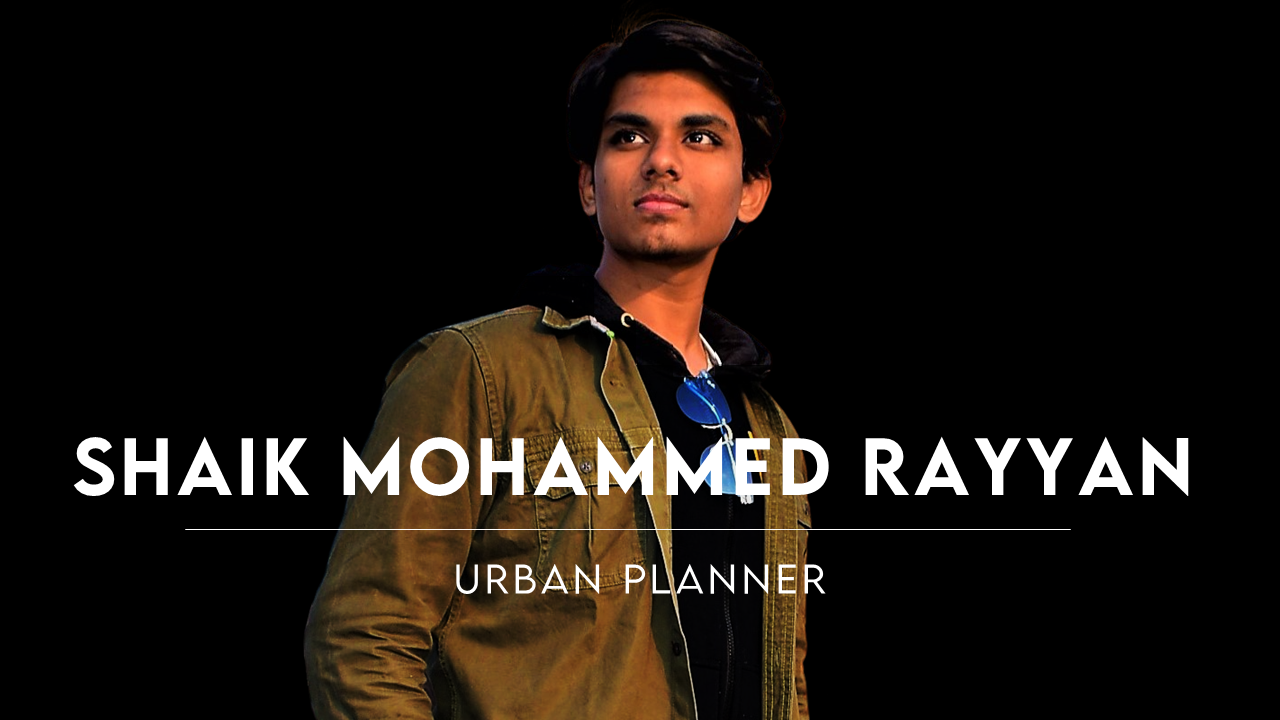
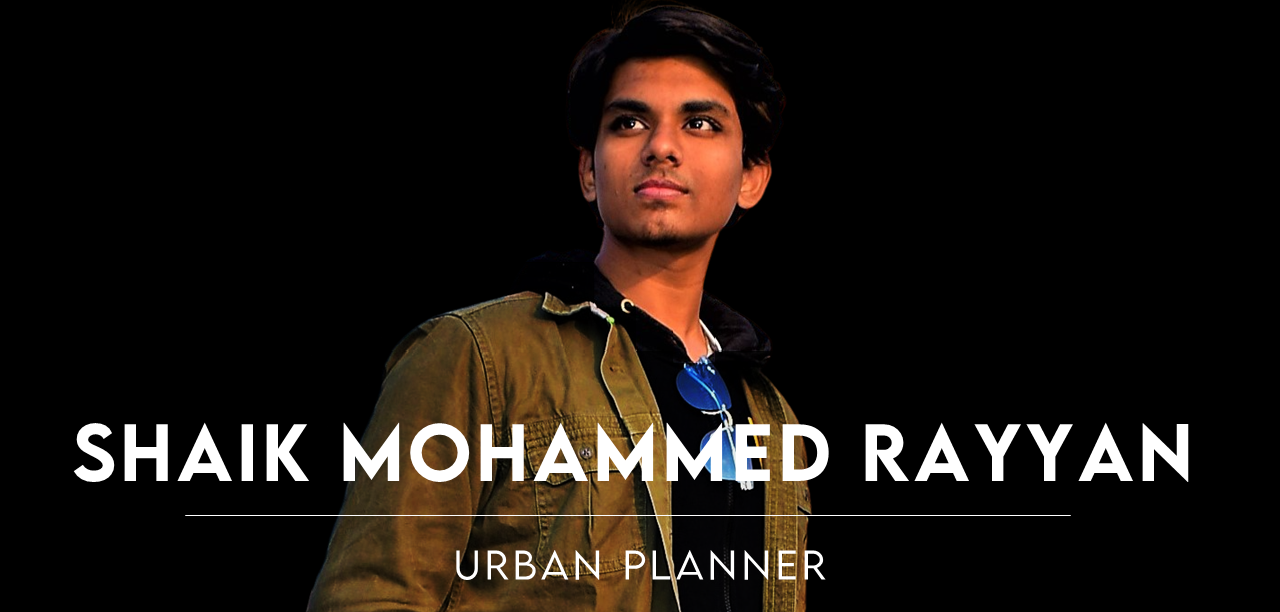
update

Changed region(s): [[0.0625, 0.1552, 0.9375, 1.0], [0.4688, 0.0, 0.5938, 0.1242]]

diff --git a/index.html b/index.html
@@ -13,7 +13,7 @@
     <link rel="stylesheet" href="style.css">
     <link rel="preconnect" href="https://fonts.googleapis.com">
     <link rel="preconnect" href="https://fonts.gstatic.com" crossorigin>
-    <link href="https://fonts.googleapis.com/css2?family=Montserrat:wght@300&display=swap" rel="stylesheet">
+    <link href="https://fonts.googleapis.com/css2?family=Montserrat:wght@400&display=swap" rel="stylesheet">
     <script src="https://kit.fontawesome.com/a320dfbe7e.js" crossorigin="anonymous"></script>
     <title>Shaik Mohammed Rayyan</title>
     <link rel="shortcut icon" href="./images/logo.ico" type="image/x-icon">
@@ -24,7 +24,7 @@
         <img id="top-img" class="header-logo" src="./images/mylogo.png" alt="LOGO">
     </div>
 
-    <header style="height: fit-content; margin-bottom: 30px" class="text-gray-600 body-font navbar">
+    <header style="height: fit-content;" class="text-gray-600 body-font navbar">
         <div style="height:fit-content;padding: 13px;" class="container mx-auto flex flex-wrap flex-col md:flex-row items-center">
 
             <nav class="md:ml-auto md:mr-auto flex flex-wrap items-center text-base justify-center">
@@ -46,45 +46,40 @@
     <script type="text/javascript">
         window.jssor_1_slider_init = function() {
 
-            var jssor_1_SlideshowTransitions = [
-              {$Duration:800,x:0.3,$During:{$Left:[0.3,0.7]},$Easing:{$Left:$Jease$.$InCubic,$Opacity:$Jease$.$Linear},$Opacity:2},
-              {$Duration:800,x:-0.3,$SlideOut:true,$Easing:{$Left:$Jease$.$InCubic,$Opacity:$Jease$.$Linear},$Opacity:2},
-              {$Duration:800,x:-0.3,$During:{$Left:[0.3,0.7]},$Easing:{$Left:$Jease$.$InCubic,$Opacity:$Jease$.$Linear},$Opacity:2},
-              {$Duration:800,x:0.3,$SlideOut:true,$Easing:{$Left:$Jease$.$InCubic,$Opacity:$Jease$.$Linear},$Opacity:2},
-              {$Duration:800,y:0.3,$During:{$Top:[0.3,0.7]},$Easing:{$Top:$Jease$.$InCubic,$Opacity:$Jease$.$Linear},$Opacity:2},
-              {$Duration:800,y:-0.3,$SlideOut:true,$Easing:{$Top:$Jease$.$InCubic,$Opacity:$Jease$.$Linear},$Opacity:2},
-              {$Duration:800,y:-0.3,$During:{$Top:[0.3,0.7]},$Easing:{$Top:$Jease$.$InCubic,$Opacity:$Jease$.$Linear},$Opacity:2},
-              {$Duration:800,y:0.3,$SlideOut:true,$Easing:{$Top:$Jease$.$InCubic,$Opacity:$Jease$.$Linear},$Opacity:2},
-              {$Duration:800,x:0.3,$Cols:2,$During:{$Left:[0.3,0.7]},$ChessMode:{$Column:3},$Easing:{$Left:$Jease$.$InCubic,$Opacity:$Jease$.$Linear},$Opacity:2},
-              {$Duration:800,x:0.3,$Cols:2,$SlideOut:true,$ChessMode:{$Column:3},$Easing:{$Left:$Jease$.$InCubic,$Opacity:$Jease$.$Linear},$Opacity:2},
-              {$Duration:800,y:0.3,$Rows:2,$During:{$Top:[0.3,0.7]},$ChessMode:{$Row:12},$Easing:{$Top:$Jease$.$InCubic,$Opacity:$Jease$.$Linear},$Opacity:2},
-              {$Duration:800,y:0.3,$Rows:2,$SlideOut:true,$ChessMode:{$Row:12},$Easing:{$Top:$Jease$.$InCubic,$Opacity:$Jease$.$Linear},$Opacity:2},
-              {$Duration:800,y:0.3,$Cols:2,$During:{$Top:[0.3,0.7]},$ChessMode:{$Column:12},$Easing:{$Top:$Jease$.$InCubic,$Opacity:$Jease$.$Linear},$Opacity:2},
-              {$Duration:800,y:-0.3,$Cols:2,$SlideOut:true,$ChessMode:{$Column:12},$Easing:{$Top:$Jease$.$InCubic,$Opacity:$Jease$.$Linear},$Opacity:2},
-              {$Duration:800,x:0.3,$Rows:2,$During:{$Left:[0.3,0.7]},$ChessMode:{$Row:3},$Easing:{$Left:$Jease$.$InCubic,$Opacity:$Jease$.$Linear},$Opacity:2},
-              {$Duration:800,x:-0.3,$Rows:2,$SlideOut:true,$ChessMode:{$Row:3},$Easing:{$Left:$Jease$.$InCubic,$Opacity:$Jease$.$Linear},$Opacity:2},
-              {$Duration:800,x:0.3,y:0.3,$Cols:2,$Rows:2,$During:{$Left:[0.3,0.7],$Top:[0.3,0.7]},$ChessMode:{$Column:3,$Row:12},$Easing:{$Left:$Jease$.$InCubic,$Top:$Jease$.$InCubic,$Opacity:$Jease$.$Linear},$Opacity:2},
-              {$Duration:800,x:0.3,y:0.3,$Cols:2,$Rows:2,$During:{$Left:[0.3,0.7],$Top:[0.3,0.7]},$SlideOut:true,$ChessMode:{$Column:3,$Row:12},$Easing:{$Left:$Jease$.$InCubic,$Top:$Jease$.$InCubic,$Opacity:$Jease$.$Linear},$Opacity:2},
-              {$Duration:800,$Delay:20,$Clip:3,$Assembly:260,$Easing:{$Clip:$Jease$.$InCubic,$Opacity:$Jease$.$Linear},$Opacity:2},
-              {$Duration:800,$Delay:20,$Clip:3,$SlideOut:true,$Assembly:260,$Easing:{$Clip:$Jease$.$OutCubic,$Opacity:$Jease$.$Linear},$Opacity:2},
-              {$Duration:800,$Delay:20,$Clip:12,$Assembly:260,$Easing:{$Clip:$Jease$.$InCubic,$Opacity:$Jease$.$Linear},$Opacity:2},
-              {$Duration:800,$Delay:20,$Clip:12,$SlideOut:true,$Assembly:260,$Easing:{$Clip:$Jease$.$OutCubic,$Opacity:$Jease$.$Linear},$Opacity:2}
+            var jssor_1_SlideoTransitions = [
+              [{b:-1,d:1,ls:0.5},{b:0,d:1000,y:5,e:{y:6}}],
+              [{b:-1,d:1,ls:0.5},{b:200,d:1000,y:25,e:{y:6}}],
+              [{b:-1,d:1,ls:0.5},{b:400,d:1000,y:45,e:{y:6}}],
+              [{b:-1,d:1,ls:0.5},{b:600,d:1000,y:65,e:{y:6}}],
+              [{b:-1,d:1,ls:0.5},{b:800,d:1000,y:85,e:{y:6}}],
+              [{b:-1,d:1,ls:0.5},{b:500,d:1000,y:195,e:{y:6}}],
+              [{b:0,d:2000,y:30,e:{y:3}}],
+              [{b:-1,d:1,rY:-15,tZ:100},{b:0,d:1500,y:30,o:1,e:{y:3}}],
+              [{b:-1,d:1,rY:-15,tZ:-100},{b:0,d:1500,y:100,o:0.8,e:{y:3}}],
+              [{b:500,d:1500,o:1}],
+              [{b:0,d:1000,y:380,e:{y:6}}],
+              [{b:300,d:1000,x:80,e:{x:6}}],
+              [{b:300,d:1000,x:330,e:{x:6}}],
+              [{b:-1,d:1,r:-110,sX:5,sY:5},{b:0,d:2000,o:1,r:-20,sX:1,sY:1,e:{o:6,r:6,sX:6,sY:6}}],
+              [{b:0,d:600,x:150,o:0.5,e:{x:6}}],
+              [{b:0,d:600,x:1140,o:0.6,e:{x:6}}],
+              [{b:-1,d:1,sX:5,sY:5},{b:600,d:600,o:1,sX:1,sY:1,e:{sX:3,sY:3}}]
             ];
 
             var jssor_1_options = {
               $AutoPlay: 1,
-              $SlideshowOptions: {
-                $Class: $JssorSlideshowRunner$,
-                $Transitions: jssor_1_SlideshowTransitions,
-                $TransitionsOrder: 1
+              $LazyLoading: 1,
+              $CaptionSliderOptions: {
+                $Class: $JssorCaptionSlideo$,
+                $Transitions: jssor_1_SlideoTransitions
               },
               $ArrowNavigatorOptions: {
                 $Class: $JssorArrowNavigator$
               },
-              $ThumbnailNavigatorOptions: {
-                $Class: $JssorThumbnailNavigator$,
-                $SpacingX: 5,
-                $SpacingY: 5
+              $BulletNavigatorOptions: {
+                $Class: $JssorBulletNavigator$,
+                $SpacingX: 20,
+                $SpacingY: 20
               }
             };
 
@@ -92,7 +87,7 @@
 
             /*#region responsive code begin*/
 
-            var MAX_WIDTH = 980;
+            var MAX_WIDTH = 1600;
 
             function ScaleSlider() {
                 var containerElement = jssor_1_slider.$Elmt.parentNode;
@@ -117,8 +112,9 @@
             /*#endregion responsive code end*/
         };
     </script>
+    <link href="https://fonts.googleapis.com/css?family=Roboto+Condensed:300,300italic,regular,italic,700,700italic&subset=latin-ext,greek-ext,cyrillic-ext,greek,vietnamese,latin,cyrillic" rel="stylesheet" type="text/css" />
     <style>
-        /*jssor slider loading skin spin css*/
+        /* jssor slider loading skin spin css */
         .jssorl-009-spin img {
             animation-name: jssorl-009-spin;
             animation-duration: 1.6s;
@@ -127,100 +123,100 @@
         }
 
         @keyframes jssorl-009-spin {
-            from { transform: rotate(0deg); }
-            to { transform: rotate(360deg); }
+            from {
+                transform: rotate(0deg);
+            }
+
+            to {
+                transform: rotate(360deg);
+            }
         }
 
-        /*jssor slider arrow skin 106 css*/
-        .jssora106 {display:block;position:absolute;cursor:pointer;}
-        .jssora106 .c {fill:#fff;opacity:.3;}
-        .jssora106 .a {fill:none;stroke:#000;stroke-width:350;stroke-miterlimit:10;}
-        .jssora106:hover .c {opacity:.5;}
-        .jssora106:hover .a {opacity:.8;}
-        .jssora106.jssora106dn .c {opacity:.2;}
-        .jssora106.jssora106dn .a {opacity:1;}
-        .jssora106.jssora106ds {opacity:.3;pointer-events:none;}
 
-        /*jssor slider thumbnail skin 101 css*/
-        .jssort101 .p {position: absolute;top:0;left:0;box-sizing:border-box;background:#000;}
-        .jssort101 .p .cv {position:relative;top:0;left:0;width:100%;height:100%;border:2px solid #000;box-sizing:border-box;z-index:1;}
-        .jssort101 .a {fill:none;stroke:#fff;stroke-width:400;stroke-miterlimit:10;visibility:hidden;}
-        .jssort101 .p:hover .cv, .jssort101 .p.pdn .cv {border:none;border-color:transparent;}
-        .jssort101 .p:hover{padding:2px;}
-        .jssort101 .p:hover .cv {background-color:rgba(0,0,0,6);opacity:.35;}
-        .jssort101 .p:hover.pdn{padding:0;}
-        .jssort101 .p:hover.pdn .cv {border:2px solid #fff;background:none;opacity:.35;}
-        .jssort101 .pav .cv {border-color:#fff;opacity:.35;}
-        .jssort101 .pav .a, .jssort101 .p:hover .a {visibility:visible;}
-        .jssort101 .t {position:absolute;top:0;left:0;width:100%;height:100%;border:none;opacity:.6;}
-        .jssort101 .pav .t, .jssort101 .p:hover .t{opacity:1;}
+        /*jssor slider bullet skin 132 css*/
+        .jssorb132 {position:absolute;}
+        .jssorb132 .i {position:absolute;cursor:pointer;}
+        .jssorb132 .i .b {fill:#fff;fill-opacity:0.8;stroke:#000;stroke-width:1600;stroke-miterlimit:10;stroke-opacity:0.7;}
+        .jssorb132 .i:hover .b {fill:#000;fill-opacity:.7;stroke:#fff;stroke-width:2000;stroke-opacity:0.8;}
+        .jssorb132 .iav .b {fill:#000;stroke:#fff;stroke-width:2400;fill-opacity:0.8;stroke-opacity:1;}
+        .jssorb132 .i.idn {opacity:0.3;}
+
+        .jssora051 {display:block;position:absolute;cursor:pointer;}
+        .jssora051 .a {fill:none;stroke:#fff;stroke-width:360;stroke-miterlimit:10;}
+        .jssora051:hover {opacity:.8;}
+        .jssora051.jssora051dn {opacity:.5;}
+        .jssora051.jssora051ds {opacity:.3;pointer-events:none;}
     </style>
-
-    <div id="jssor_1" style="position:relative;margin:0 auto;top:0px;left:0px;width:980px;height:650px;overflow:hidden;visibility:hidden;">
+    <svg viewbox="0 0 0 0" width="0" height="0" style="display:block;position:relative;left:0px;top:0px;">
+        <defs>
+            <filter id="jssor_1_flt_1" x="-50%" y="-50%" width="200%" height="200%">
+                <feGaussianBlur stddeviation="4"></feGaussianBlur>
+            </filter>
+            <radialGradient id="jssor_1_grd_2">
+                <stop offset="0" stop-color="#fff"></stop>
+                <stop offset="1" stop-color="#000"></stop>
+            </radialGradient>
+            <mask id="jssor_1_msk_3">
+                <path fill="url(#jssor_1_grd_2)" d="M600,0L600,400L0,400L0,0Z" x="0" y="0" style="position:absolute;overflow:visible;"></path>
+            </mask>
+        </defs>
+    </svg>
+    <div id="jssor_1" style="position:relative;margin:0 auto;top:0px;left:0px;width:1600px;height:560px;overflow:hidden;visibility:hidden;">
         <!-- Loading Screen -->
         <div data-u="loading" class="jssorl-009-spin" style="position:absolute;top:0px;left:0px;width:100%;height:100%;text-align:center;background-color:rgba(0,0,0,0.7);">
             <img style="margin-top:-19px;position:relative;top:50%;width:38px;height:38px;" src="img/spin.svg" />
         </div>
-        <div data-u="slides" style="cursor:default;position:relative;top:0px;left:0px;width:980px;height:550px;overflow:hidden;">
+        <div data-u="slides" style="cursor:default;position:relative;top:0px;left:0px;width:1600px;height:560px;overflow:hidden;">
             <div>
-                <img data-u="image" src="img/mypic.png" />
-                <img data-u="thumb" src="img/mypic.png" />
+                <img data-u="image" style="opacity:0.8;" data-src="img/mypic.png" />
+                
             </div>
             <div>
-                <img style="cursor: pointer;" data-u="image" src="img/Slide1.PNG" onclick="location.href = 'https://drive.google.com/file/d/1VWomACsD3ir1dro8TjqrPgCEAmewfrE1/view?usp=sharing'" />
-                <img data-u="thumb" src="img/Slide1.PNG" />
+                <img style="cursor: pointer;" data-u="image" data-src="img/Slide1.PNG"  onclick="window.open('https://drive.google.com/file/d/1VWomACsD3ir1dro8TjqrPgCEAmewfrE1/view?usp=sharing' , '_blank')" />
+               
             </div>
             <div>
-                <img style="cursor: pointer;" data-u="image" src="img/Slide2.PNG" onclick="location.href = 'https://drive.google.com/file/d/1FUmnqx-6FIfSRGl3apkS-MGu8_QoG1Lw/view?usp=sharing'" />
-                <img data-u="thumb" src="img/Slide2.PNG" />
+                <img style="cursor: pointer;" data-u="image" data-src="img/Slide2.PNG" onclick="window.open('https://drive.google.com/file/d/1FUmnqx-6FIfSRGl3apkS-MGu8_QoG1Lw/view?usp=sharing' , '_blank')" />
+               
             </div>
             <div>
-                <img style="cursor: pointer;" data-u="image" src="img/Slide3.PNG" onclick="location.href = 'https://drive.google.com/file/d/1_4aUjA5RTGiEUOfpcB16ztW-qu5TZoff/view?usp=sharing'" />
-                <img data-u="thumb" src="img/Slide3.PNG" />
+                <img style="cursor: pointer;" data-u="image" data-src="img/Slide3.PNG" onclick="window.open('https://drive.google.com/file/d/1_4aUjA5RTGiEUOfpcB16ztW-qu5TZoff/view?usp=sharing' , '_blank')" />
+               
             </div>
             <div>
-                <img style="cursor: pointer;" data-u="image" src="img/Slide4.PNG" onclick="location.href = 'https://drive.google.com/file/d/1bTyb5oTqdgvheyYwiLX-f-vSBww-gCxD/view?usp=sharing'" />
-                <img data-u="thumb" src="img/Slide4.PNG" />
+                <img style="cursor: pointer;" data-u="image" data-src="img/Slide4.PNG" onclick="window.open('https://drive.google.com/file/d/1bTyb5oTqdgvheyYwiLX-f-vSBww-gCxD/view?usp=sharing' , '_blank')" />
+               
             </div>
             <div>
-                <img style="cursor: pointer;" data-u="image" src="img/Slide5.PNG" onclick="location.href = 'https://drive.google.com/file/d/1kiffY4QnEwM0FQ95vURHrn2wg2BPCet4/view?usp=sharing'" />
-                <img data-u="thumb" src="img/Slide5.PNG" />
+                <img style="cursor: pointer;" data-u="image" data-src="img/Slide5.PNG" onclick="window.open('https://drive.google.com/file/d/1kiffY4QnEwM0FQ95vURHrn2wg2BPCet4/view?usp=sharing' , '_blank')" />
+               
             </div>
             <div>
-                <img style="cursor: pointer;" data-u="image" src="img/Slide6.PNG" onclick="location.href = 'https://drive.google.com/file/d/1feAUgq1FbtdR1tSoxVaG8mP2fAydRxt8/view?usp=sharing'" />
-                <img data-u="thumb" src="img/Slide6.PNG" />
+                <img style="cursor: pointer;" data-u="image" data-src="img/Slide6.PNG" onclick="window.open('https://drive.google.com/file/d/1feAUgq1FbtdR1tSoxVaG8mP2fAydRxt8/view?usp=sharing' , '_blank')" />
+               
             </div>
             <div>
-                <img style="cursor: pointer;" data-u="image" src="img/Slide7.PNG" onclick="location.href = 'https://drive.google.com/file/d/1DManhq8UMiGzdutE8CjDDVambNhFPcgL/view?usp=sharing'" />
-                <img data-u="thumb" src="img/Slide7.PNG" />
+                <img style="cursor: pointer;" data-u="image" data-src="img/Slide7.PNG" onclick="window.open('https://drive.google.com/file/d/1DManhq8UMiGzdutE8CjDDVambNhFPcgL/view?usp=sharing' , '_blank')" />
+               
             </div>
-        </div><a data-scale="0" href="https://www.jssor.com" style="display:none;position:absolute;">web animation</a>
-        <!-- Thumbnail Navigator -->
-        <div data-u="thumbnavigator" class="jssort101" style="position:absolute;left:0px;bottom:0px;width:980px;height:100px;background-color:#000;" data-autocenter="1" data-scale-bottom="0.75">
-            <div data-u="slides">
-                <div data-u="prototype" class="p" style="width:190px;height:90px;">
-                    <div data-u="thumbnailtemplate" class="t"></div>
-                    <svg viewbox="0 0 16000 16000" class="cv">
-                        <circle class="a" cx="8000" cy="8000" r="3238.1"></circle>
-                        <line class="a" x1="6190.5" y1="8000" x2="9809.5" y2="8000"></line>
-                        <line class="a" x1="8000" y1="9809.5" x2="8000" y2="6190.5"></line>
-                    </svg>
-                </div>
+        </div><a data-scale="0" href="https://www.jssor.com" style="display:none;position:absolute;">slider html</a>
+        <!-- Bullet Navigator -->
+        <div data-u="navigator" class="jssorb132" style="position:absolute;bottom:24px;right:16px;" data-autocenter="1" data-scale="0.5" data-scale-bottom="0.75">
+            <div data-u="prototype" class="i" style="width:12px;height:12px;">
+                <svg viewbox="0 0 16000 16000" style="position:absolute;top:0;left:0;width:100%;height:100%;">
+                    <circle class="b" cx="8000" cy="8000" r="5800"></circle>
+                </svg>
             </div>
         </div>
         <!-- Arrow Navigator -->
-        <div data-u="arrowleft" class="jssora106" style="width:55px;height:55px;top:162px;left:30px;" data-scale="0.75">
+        <div data-u="arrowleft" class="jssora051" style="width:55px;height:55px;top:0px;left:25px;" data-autocenter="2" data-scale="0.75" data-scale-left="0.75">
             <svg viewbox="0 0 16000 16000" style="position:absolute;top:0;left:0;width:100%;height:100%;">
-                <circle class="c" cx="8000" cy="8000" r="6260.9"></circle>
-                <polyline class="a" points="7930.4,5495.7 5426.1,8000 7930.4,10504.3 "></polyline>
-                <line class="a" x1="10573.9" y1="8000" x2="5426.1" y2="8000"></line>
+                <polyline class="a" points="11040,1920 4960,8000 11040,14080 "></polyline>
             </svg>
         </div>
-        <div data-u="arrowright" class="jssora106" style="width:55px;height:55px;top:162px;right:30px;" data-scale="0.75">
+        <div data-u="arrowright" class="jssora051" style="width:55px;height:55px;top:0px;right:25px;" data-autocenter="2" data-scale="0.75" data-scale-right="0.75">
             <svg viewbox="0 0 16000 16000" style="position:absolute;top:0;left:0;width:100%;height:100%;">
-                <circle class="c" cx="8000" cy="8000" r="6260.9"></circle>
-                <polyline class="a" points="8069.6,5495.7 10573.9,8000 8069.6,10504.3 "></polyline>
-                <line class="a" x1="5426.1" y1="8000" x2="10573.9" y2="8000"></line>
+                <polyline class="a" points="4960,1920 11040,8000 4960,14080 "></polyline>
             </svg>
         </div>
     </div>
@@ -228,25 +224,7 @@
     </script>
 
     <div id="home">
-        <!-- <div class="flex-center">
-            <div class="home">
-                <button class="home-btn home-btn1" onclick="plusDivs(-1)">&#10094;</button>
-                <img style="cursor:auto;" class="mySlides" src="./images/mypic.png" alt="">
-                <img class="mySlides" src="./images/Slide1.PNG" onclick="window.location.href = 'https://drive.google.com/file/d/1VWomACsD3ir1dro8TjqrPgCEAmewfrE1/view?usp=sharing'">
-                <img class="mySlides" src="./images/Slide2.PNG" onclick="window.location.href = 'https://drive.google.com/file/d/1FUmnqx-6FIfSRGl3apkS-MGu8_QoG1Lw/view?usp=sharing'">
-                <img class="mySlides" src="./images/Slide3.PNG" onclick="window.location.href = 'https://drive.google.com/file/d/1_4aUjA5RTGiEUOfpcB16ztW-qu5TZoff/view?usp=sharing'">
-                <img class="mySlides" src="./images/Slide4.PNG" onclick="window.location.href = 'https://drive.google.com/file/d/1bTyb5oTqdgvheyYwiLX-f-vSBww-gCxD/view?usp=sharing'">
-                <img class="mySlides" src="./images/Slide5.PNG" onclick="window.location.href = 'https://drive.google.com/file/d/1kiffY4QnEwM0FQ95vURHrn2wg2BPCet4/view?usp=sharing'">
-                <img class="mySlides" src="./images/Slide6.PNG" onclick="window.location.href = 'https://drive.google.com/file/d/1feAUgq1FbtdR1tSoxVaG8mP2fAydRxt8/view?usp=sharing'">
-                <img class="mySlides" src="./images/Slide7.PNG" onclick="window.location.href = 'https://drive.google.com/file/d/1DManhq8UMiGzdutE8CjDDVambNhFPcgL/view?usp=sharing'">
-                <button class="home-btn home-btn2" onclick="plusDivs(+1)">&#10095;</button>
-            </div>
-        </div>
-        <div class="home-btnx">
-            <button class="home-btny" onclick="plusDivs(-1)">&#10094;</button>
-            <button class="home-btny" onclick="plusDivs(+1)">&#10095;</button>
-            
-        </div> -->
+        
         <section class="text-gray-600 body-font">
             <div class="container mx-auto flex px-5 py-7 md:flex-row flex-col items-center">
                 <div class="lg:max-w-lg lg:w-full md:w-1/2 w-5/6 mb-10 md:mb-0">

diff --git a/style.css b/style.css
@@ -14,6 +14,7 @@ body {
     background-size: cover;
     font-family: 'Montserrat', sans-serif;
     color: white;
+    overflow-x: hidden;
 }
 .header-logo{
     background-color: black;
